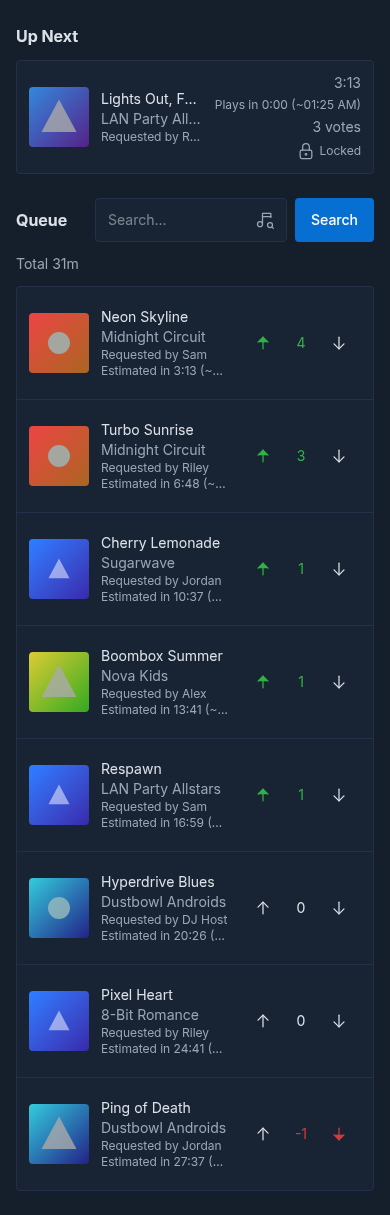
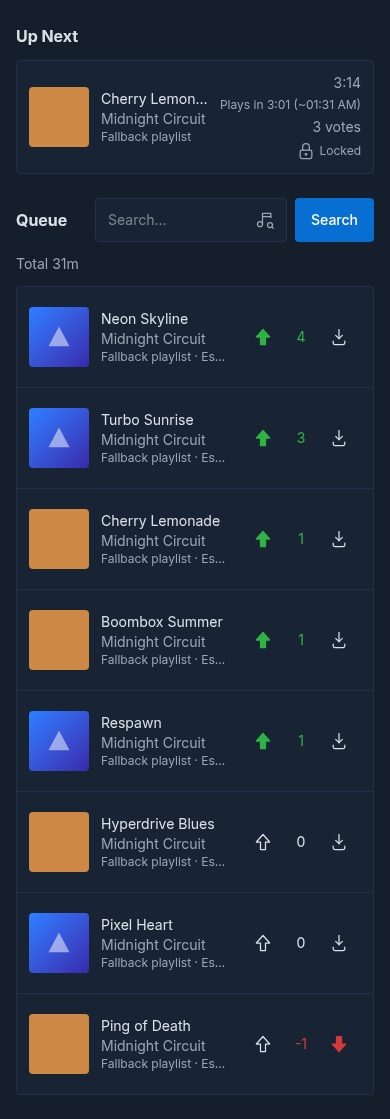
Queue page: solid voted arrows, tray down arrow, ETA inline for v2 row height, loading footer (#239)

diff --git a/resources/js/Components/QueueList.vue b/resources/js/Components/QueueList.vue
@@ -126,8 +126,7 @@ const buttonClass = (active, activeColor) => [
                 <div class="min-w-0 flex-1">
                     <div class="truncate text-sm"><TrackLink :href="item.track.provider_url">{{ item.track.title }}</TrackLink></div>
                     <div class="truncate text-sm text-muted">{{ item.track.artists.join(', ') }}</div>
-                    <div class="truncate text-xs text-muted">{{ requesterLabel(item) }}</div>
-                    <div v-if="startsAt[item.id] !== undefined" data-testid="queue-item-eta" class="truncate text-xs tabular-nums text-muted">Estimated in {{ formatCountdown(startsAt[item.id], now) }} (~{{ formatClock(startsAt[item.id]) }})</div>
+                    <div class="truncate text-xs text-muted">{{ requesterLabel(item) }}<span v-if="startsAt[item.id] !== undefined" data-testid="queue-item-eta" class="tabular-nums"> · Estimated in {{ formatCountdown(startsAt[item.id], now) }} (~{{ formatClock(startsAt[item.id]) }})</span></div>
                     <Decorations :decorations="item.decorations" class="mt-1" />
                 </div>
                 <span class="hidden text-sm tabular-nums text-muted sm:inline">{{ formatDuration(item.track.duration_ms) }}</span>
@@ -141,7 +140,7 @@ const buttonClass = (active, activeColor) => [
                         :class="buttonClass(item.my_vote === 1, 'text-accent')"
                         @click="vote(item, 'up')"
                     >
-                        <Icon :name="downvotesEnabled ? 'arrowUp' : 'heart'" :filled="item.my_vote === 1" />
+                        <Icon :name="downvotesEnabled ? 'voteUp' : 'heart'" :filled="item.my_vote === 1" />
                     </button>
                     <span
                         data-testid="queue-score"
@@ -158,7 +157,7 @@ const buttonClass = (active, activeColor) => [
                         :class="buttonClass(item.my_vote === -1, 'text-danger')"
                         @click="vote(item, 'down')"
                     >
-                        <Icon name="arrowDown" :filled="item.my_vote === -1" />
+                        <Icon :name="item.my_vote === -1 ? 'voteDown' : 'voteDownTray'" :filled="item.my_vote === -1" />
                     </button>
                     <button
                         v-if="canRemove(item)"
@@ -177,6 +176,6 @@ const buttonClass = (active, activeColor) => [
             <ModSlot name="queue-item" :item="item" />
             <p v-if="errors[item.id]" role="alert" data-testid="vote-error" class="mt-2 text-center text-sm text-danger">{{ errors[item.id] }}</p>
         </li>
-        <li v-if="hasMore" ref="sentinel" data-testid="queue-sentinel" aria-hidden="true" class="h-px"></li>
+        <li v-if="hasMore" ref="sentinel" data-testid="queue-sentinel" class="py-3 text-center text-sm text-muted">Loading upcoming songs...</li>
     </ul>
 </template>

diff --git a/resources/js/__tests__/QueueDetails.test.js b/resources/js/__tests__/QueueDetails.test.js
@@ -10,6 +10,7 @@ vi.mock('@inertiajs/vue3', () => ({
     usePage: () => ({props: {errors: {}}}),
 }));
 
+import {iconPaths} from '../lib/icons';
 import Show from '../pages/Party/Show.vue';
 import QueueList from '../Components/QueueList.vue';
 import TrackThumb from '../Components/TrackThumb.vue';
@@ -108,12 +109,32 @@ describe('Vote icons', () => {
     it('shows a heart and no down button when downvotes are disabled', () => {
         const w = mountList([item()], {downvotesEnabled: false});
         expect(w.find('[data-testid=vote-down]').exists()).toBe(false);
-        expect(w.find('[data-testid=vote-up] svg path').attributes('d')).toContain('a5 5 0');
+        expect(w.find('[data-testid=vote-up] svg path').attributes('d')).toBe(iconPaths.heart[0]);
     });
 
     it('fills the heart when the member has voted', () => {
         const w = mountList([item({my_vote: 1})], {downvotesEnabled: false});
         expect(w.find('[data-testid=vote-up] svg').attributes('fill')).toBe('currentColor');
+    });
+});
+
+describe('Vote icon shapes', () => {
+    it('uses a hollow block arrow up and a tray down arrow when unvoted', () => {
+        const w = mountList([item()]);
+        expect(w.find('[data-testid=vote-up] svg path').attributes('d')).toBe(iconPaths.voteUp[0]);
+        expect(w.find('[data-testid=vote-down] svg path').attributes('d')).toBe(iconPaths.voteDownTray[0]);
+    });
+
+    it('switches the down vote to a solid block arrow when downvoted', () => {
+        const w = mountList([item({my_vote: -1})]);
+        expect(w.find('[data-testid=vote-down] svg path').attributes('d')).toBe(iconPaths.voteDown[0]);
+    });
+});
+
+describe('Queue loader', () => {
+    it('shows the loading footer while more rows remain', () => {
+        const queue = Array.from({length: 25}, (_, i) => item({id: i + 1}));
+        expect(mountList(queue).find('[data-testid=queue-sentinel]').text()).toBe('Loading upcoming songs...');
     });
 });
 

diff --git a/resources/js/lib/icons.js b/resources/js/lib/icons.js
@@ -20,6 +20,9 @@ export const iconPaths = {
     musicPlus: ['M3 17a3 3 0 1 0 6 0a3 3 0 0 0 -6 0', 'M9 17v-13h10v8', 'M9 8h10', 'M16 19h6', 'M19 16v6'],
     arrowUp: ['M12 5l0 14', 'M18 11l-6 -6l-6 6'],
     arrowDown: ['M12 5l0 14', 'M18 13l-6 6l-6 -6'],
+    voteUp: ['M12 3l8 9h-5v9h-6v-9h-5z'],
+    voteDown: ['M12 21l-8 -9h5v-9h6v9h5z'],
+    voteDownTray: ['M12 3v11', 'M8 10l4 4l4 -4', 'M5 17v2a2 2 0 0 0 2 2h10a2 2 0 0 0 2 -2v-2'],
     thumbUp: ['M7 11v8a1 1 0 0 1 -1 1h-2a1 1 0 0 1 -1 -1v-7a1 1 0 0 1 1 -1h3a4 4 0 0 0 4 -4v-1a2 2 0 0 1 4 0v5h3a2 2 0 0 1 2 2l-1 5a2 3 0 0 1 -2 2h-7a3 3 0 0 1 -3 -3'],
     thumbDown: ['M7 13v-8a1 1 0 0 0 -1 -1h-2a1 1 0 0 0 -1 1v7a1 1 0 0 0 1 1h3a4 4 0 0 1 4 4v1a2 2 0 0 0 4 0v-5h3a2 2 0 0 0 2 -2l-1 -5a2 3 0 0 0 -2 -2h-7a3 3 0 0 0 -3 3'],
     lock: ['M5 13a2 2 0 0 1 2 -2h10a2 2 0 0 1 2 2v6a2 2 0 0 1 -2 2h-10a2 2 0 0 1 -2 -2l0 -6', 'M11 16a1 1 0 1 0 2 0a1 1 0 0 0 -2 0', 'M8 11v-4a4 4 0 1 1 8 0v4'],
